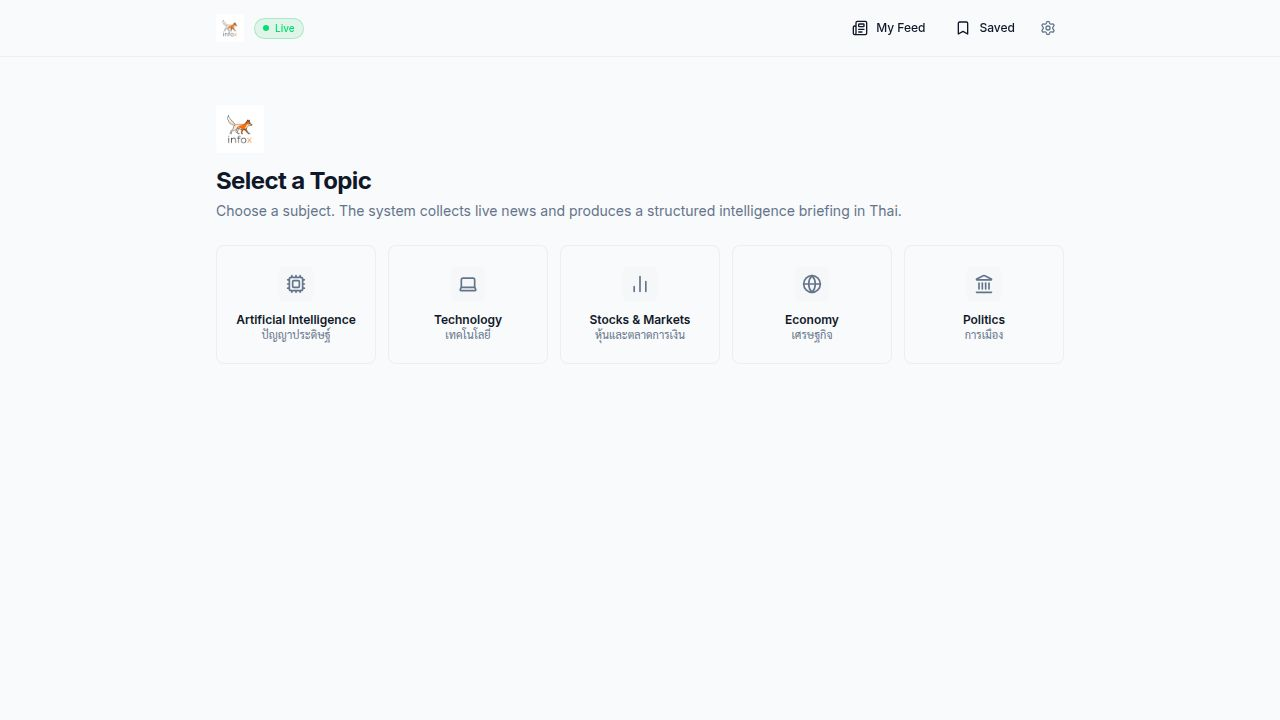
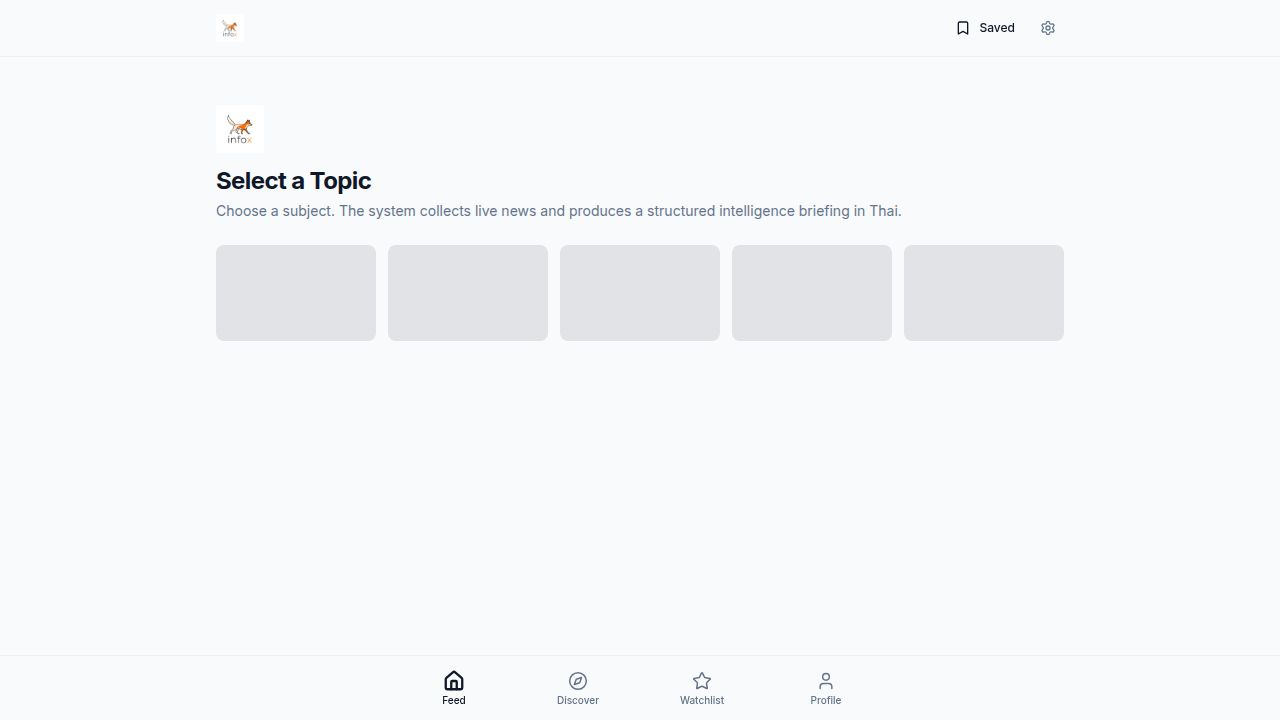
Update authentication to use a new helper function
Replace direct `req.user` access with `getAuthUser` helper function in auth routes and middleware. Implement `AuthedRequest` type for explicit user handling.

Replit-Commit-Author: Agent
Replit-Commit-Session-Id: 56f74125-2e0f-4891-a701-27eef458ff96
Replit-Commit-Checkpoint-Type: full_checkpoint
Replit-Commit-Event-Id: fe6df56c-2b57-4598-988b-cb809a1e41e4
Replit-Commit-Screenshot-Url: https://storage.googleapis.com/screenshot-production-us-central1/8e1375fb-9d35-48b8-976a-8ee8673bfea5/56f74125-2e0f-4891-a701-27eef458ff96/44C1s6y
Replit-Helium-Checkpoint-Created: true

diff --git a/artifacts/api-server/src/middleware/auth.ts b/artifacts/api-server/src/middleware/auth.ts
@@ -11,11 +11,9 @@ export interface AuthUser {
   sessionId: string;
 }
 
-declare module "express-serve-static-core" {
-  interface Request {
-    user?: AuthUser;
-  }
-}
+// Typed request that carries an authenticated user — use instead of module augmentation
+// (tsconfig "types":["node"] prevents express-serve-static-core from being augmented directly)
+export type AuthedRequest = Request & { user: AuthUser };
 
 function extractToken(req: Request): string | null {
   const authHeader = req.headers.authorization;
@@ -45,7 +43,7 @@ export function requireAuth(req: Request, res: Response, next: NextFunction): vo
   }
   try {
     const payload = verifyJwt(token);
-    req.user = payloadToAuthUser(payload);
+    (req as AuthedRequest).user = payloadToAuthUser(payload);
     void touchSession(payload.sessionId);
     next();
   } catch {
@@ -65,7 +63,7 @@ export function requireAdmin(req: Request, res: Response, next: NextFunction): v
       res.status(403).json({ error: "Forbidden" });
       return;
     }
-    req.user = payloadToAuthUser(payload);
+    (req as AuthedRequest).user = payloadToAuthUser(payload);
     void touchSession(payload.sessionId);
     next();
   } catch {
@@ -85,11 +83,18 @@ export function optionalAuth(req: Request, _res: Response, next: NextFunction): 
   if (token) {
     try {
       const payload = verifyJwt(token);
-      req.user = payloadToAuthUser(payload);
+      (req as AuthedRequest).user = payloadToAuthUser(payload);
       void touchSession(payload.sessionId);
     } catch {
       // Token present but invalid — proceed as anonymous
     }
   }
   next();
+}
+
+/** Helper — read auth user after requireAuth middleware. Throws if not present. */
+export function getAuthUser(req: Request): AuthUser {
+  const user = (req as AuthedRequest).user;
+  if (!user) throw new Error("requireAuth middleware must run first");
+  return user;
 }

diff --git a/artifacts/api-server/src/routes/auth.ts b/artifacts/api-server/src/routes/auth.ts
@@ -20,7 +20,7 @@ import {
   deactivateSession,
 } from "../repositories/userRepository.js";
 import { upsertProfile } from "../repositories/userProfileRepository.js";
-import { requireAuth } from "../middleware/auth.js";
+import { requireAuth, getAuthUser } from "../middleware/auth.js";
 import { logger } from "../lib/logger.js";
 
 const router = Router();
@@ -121,9 +121,9 @@ router.post("/auth/login", async (req, res) => {
 // ── POST /auth/logout ───────────────────────────────────────
 
 router.post("/auth/logout", requireAuth, async (req, res) => {
-  const sessionId = req.user?.sessionId;
-  if (sessionId && sessionId !== "fallback") {
-    await deactivateSession(sessionId);
+  const authUser = getAuthUser(req);
+  if (authUser.sessionId && authUser.sessionId !== "fallback") {
+    await deactivateSession(authUser.sessionId);
   }
   res.json({ ok: true });
 });
@@ -131,11 +131,7 @@ router.post("/auth/logout", requireAuth, async (req, res) => {
 // ── GET /auth/me ────────────────────────────────────────────
 
 router.get("/auth/me", requireAuth, async (req, res) => {
-  const userId = req.user?.userId;
-  if (!userId) {
-    res.status(401).json({ error: "Unauthorized" });
-    return;
-  }
+  const userId = getAuthUser(req).userId;
   const user = await getUserById(userId);
   if (!user) {
     res.status(404).json({ error: "User not found" });
@@ -176,7 +172,7 @@ router.post("/auth/migrate", requireAuth, async (req, res) => {
     res.status(400).json({ error: "anonymousProfileId required" });
     return;
   }
-  const userId = req.user!.userId;
+  const userId = getAuthUser(req).userId;
   const user = await getUserById(userId);
   if (!user) {
     res.status(404).json({ error: "User not found" });

diff --git a/.agents/memory/sprint23-auth.md b/.agents/memory/sprint23-auth.md
@@ -1,0 +1,54 @@
+---
+name: Sprint 23 Authentication
+description: Real auth implementation — email/password, Google OAuth, JWT sessions, anonymous migration, TypeScript patterns used.
+---
+
+## AuthedRequest type pattern (CRITICAL)
+
+tsconfig `"types": ["node"]` prevents `express-serve-static-core` from resolving in module augmentation:
+
+```
+// BROKEN — do not use
+declare module "express-serve-static-core" { interface Request { user?: AuthUser; } }
+
+// CORRECT — use intersection type + cast + helper
+export type AuthedRequest = Request & { user: AuthUser };
+export function getAuthUser(req: Request): AuthUser { ... }
+
+// In middleware:
+(req as AuthedRequest).user = payloadToAuthUser(payload);
+
+// In routes:
+const userId = getAuthUser(req).userId;
+```
+
+**Why:** The pnpm virtual store has `@types/express-serve-static-core` but the tsconfig types restriction prevents TypeScript from resolving it as an augmentable module. Cast + helper is safe and explicit.
+
+## Key files
+
+- `artifacts/api-server/src/middleware/auth.ts` — AuthedRequest, requireAuth, requireAdmin, optionalAuth, getAuthUser
+- `artifacts/api-server/src/services/auth/authService.ts` — bcryptjs + jsonwebtoken + Google OAuth manual flow
+- `artifacts/api-server/src/repositories/userRepository.ts` — getUserByEmail, createUser, createSession, touchSession, deactivateSession
+- `artifacts/api-server/src/routes/auth.ts` — 8 endpoints under /api/auth/*
+- `artifacts/newsroom/src/contexts/AuthContext.tsx` — AuthProvider + useAuth()
+- `lib/db/src/schema/users.ts` + `userSessions.ts` — 2 new DB tables
+
+## Config
+
+- `JWT_SECRET` — Replit secret (30-day HS256 tokens)
+- `ADMIN_EMAILS` — comma-separated list, grants role=admin on register/login
+- `GOOGLE_CLIENT_ID` + `GOOGLE_CLIENT_SECRET` — optional; Google OAuth returns configured:false if absent
+- `FRONTEND_URL` — used for Google OAuth callback redirect
+
+## Anonymous migration
+
+JWT payload always carries `profileId` = the anonymous profile UUID (from localStorage `ai-newsroom:profile-id`). All data routes (interests, watchlist, saved briefings) key on profileId and remain unchanged after account creation. Migration links the existing user_profiles row to the new users row.
+
+## Pre-existing TS errors (not Sprint 23)
+
+These 8 errors existed before Sprint 23 — do not attempt to fix them as auth work:
+- adminNarratives.ts(144): TS7030 not all code paths return a value
+- debug.ts(74,77): TS2322 string | null not assignable
+- proactiveIntelligence.ts(140): TS7030 not all code paths return a value
+- deliveryEngine.ts(110,111): TS2339 signalScore not on RssArticle
+- retryWorker.ts(32): TS2339 sendTelegramMessages not found

diff --git a/docs/CHANGELOG.md b/docs/CHANGELOG.md
@@ -2,6 +2,58 @@
 
 ---
 
+## [2026-06-17] — Sprint 23: Authentication Foundation
+
+**What:** Real user accounts — email/password auth, Google OAuth, JWT sessions, anonymous profile migration, AuthContext, and protected routes.
+
+### Database (2 new tables)
+- `users` — canonical user table: id, email, display_name, avatar_url, password_hash, provider (anonymous/email/google), role (user/admin), tier (free/founding_member/premium_future), founding_member, waitlist_position, founder_code, anonymous_profile_id, created_at, updated_at, last_login_at
+- `user_sessions` — session tracking: id, user_id, device_hint, created_at, expires_at, last_seen, is_active
+
+### Backend (API Server)
+- `lib/db/src/schema/users.ts` — users schema
+- `lib/db/src/schema/userSessions.ts` — sessions schema
+- `artifacts/api-server/src/repositories/userRepository.ts` — full CRUD for users + sessions
+- `artifacts/api-server/src/services/auth/authService.ts` — bcryptjs password hashing, JWT signing/verification (30d expiry), Google OAuth2 manual flow
+- `artifacts/api-server/src/middleware/auth.ts` — ACTIVATED: real JWT verification in requireAuth/requireAdmin, optionalAuth; AuthedRequest type replaces module augmentation
+- `artifacts/api-server/src/routes/auth.ts` — 8 new endpoints:
+  - `POST /api/auth/register` — email/password registration + anonymous profile linking
+  - `POST /api/auth/login` — email/password login → JWT
+  - `POST /api/auth/logout` — deactivates session
+  - `GET /api/auth/me` — current user from JWT
+  - `POST /api/auth/refresh` — refresh token
+  - `POST /api/auth/migrate` — link anonymous profile to account
+  - `GET /api/auth/google` — Google OAuth redirect
+  - `GET /api/auth/google/callback` — OAuth callback → JWT → frontend redirect
+  - `GET /api/auth/google/status` — whether Google OAuth is configured
+- `artifacts/api-server/src/app.ts` — added cookie-parser middleware
+
+### Frontend (Newsroom)
+- `artifacts/newsroom/src/contexts/AuthContext.tsx` — NEW: AuthProvider + useAuth() hook; login, register, loginWithGoogle, logout, profileId, isAdmin, isAuthenticated
+- `artifacts/newsroom/src/components/auth/ProtectedRoute.tsx` — ACTIVATED: real JWT check, redirect to /auth/login if unauthenticated, redirect to / if non-admin
+- `artifacts/newsroom/src/pages/auth/login.tsx` — REPLACED: real email/password form + Google OAuth button
+- `artifacts/newsroom/src/pages/auth/signup.tsx` — NEW: registration form (email, password, name) with anonymous data migration note
+- `artifacts/newsroom/src/pages/auth/callback.tsx` — NEW: OAuth callback handler (reads ?token= param, stores JWT, redirects to /profile)
+- `artifacts/newsroom/src/pages/profile.tsx` — AUTH-AWARE: shows real display name/email/avatar, "Create Account" CTA for anonymous users, sign-out button
+- `artifacts/newsroom/src/App.tsx` — wrapped with AuthProvider, added /auth/signup + /auth/callback routes
+
+### Security
+- Passwords hashed with bcryptjs (12 rounds)
+- JWT signed with HS256, 30-day expiry, stored in localStorage
+- ADMIN_EMAILS env var designates admin accounts on login/register
+- Google OAuth: manual flow, no passport dependency
+- Session tracking in DB with expiry + last_seen
+
+### Anonymous Migration Strategy
+- On register/Google login: pass anonymousProfileId → server links user_profiles row, sets migration_ready=true
+- JWT payload carries profileId (= anonymous profile ID) so all existing API routes (interests, watchlist, saved briefings) work unchanged
+- Zero data loss on account creation
+
+**Files modified:** 14 files (6 new, 8 updated)
+**DB push:** users + user_sessions tables created in PostgreSQL
+
+---
+
 ## [2026-06-17] — Sprint 21: Observability & Business Intelligence
 
 **What:** Observability sprint — zero new product features; all work improves visibility into what is running and fixes routes that were silently broken.

diff --git a/.agents/memory/MEMORY.md b/.agents/memory/MEMORY.md
@@ -20,4 +20,5 @@
 - [Sprint 20 Production Prep](sprint20-production-prep.md) — vite.config.ts PORT default fix; dead file deletion rule; auth middleware stubs (requireAuth/requireAdmin); ProtectedRoute placeholder; /admin/system + /admin/health pages; deployment/Makefile
 - [Sprint 21 Observability](sprint21-observability.md) — double-prefix route bug (never use /api/ inside router mounted at /api); wildcard ordering; 2 new DB tables; 9 new admin routes; command-center + users pages
 - [Sprint 22 Personalization](sprint22-personalization.md) — interest weights in DB, feedRankingService, feedback loop (like/dislike/follow), /discover+/watchlist+/profile pages, BottomNav, route budget trimmed 24→20
-- [Sprint 18 Multi-Source Intelligence](sprint18-intelligence.md) — thaiLocalizationEngine, sourceTrustEngine, tokenSurvivalEngine, sourcePriorityOrchestrator, signalMemoryOptimizer, byokPreparation, platformAdapters, previewDeliveryV3, deploymentHardening; RssArticle uses `description` not `summary`; tokenGovernor uses `pressureLevel`+`budgetFraction` not `pressure`+`remainingBudgetPct`
+- [Sprint 18 Multi-Source Intelligence](sprint18-intelligence.md) — thaliLocalizationEngine, sourceTrustEngine, tokenSurvivalEngine, sourcePriorityOrchestrator, signalMemoryOptimizer, byokPreparation, platformAdapters, previewDeliveryV3, deploymentHardening; RssArticle uses `description` not `summary`; tokenGovernor uses `pressureLevel`+`budgetFraction` not `pressure`+`remainingBudgetPct`
+- [Sprint 23 Authentication](sprint23-auth.md) — real auth (email+Google OAuth+JWT); AuthedRequest type pattern; getAuthUser() helper; ADMIN_EMAILS env var; anonymous profile migration strategy